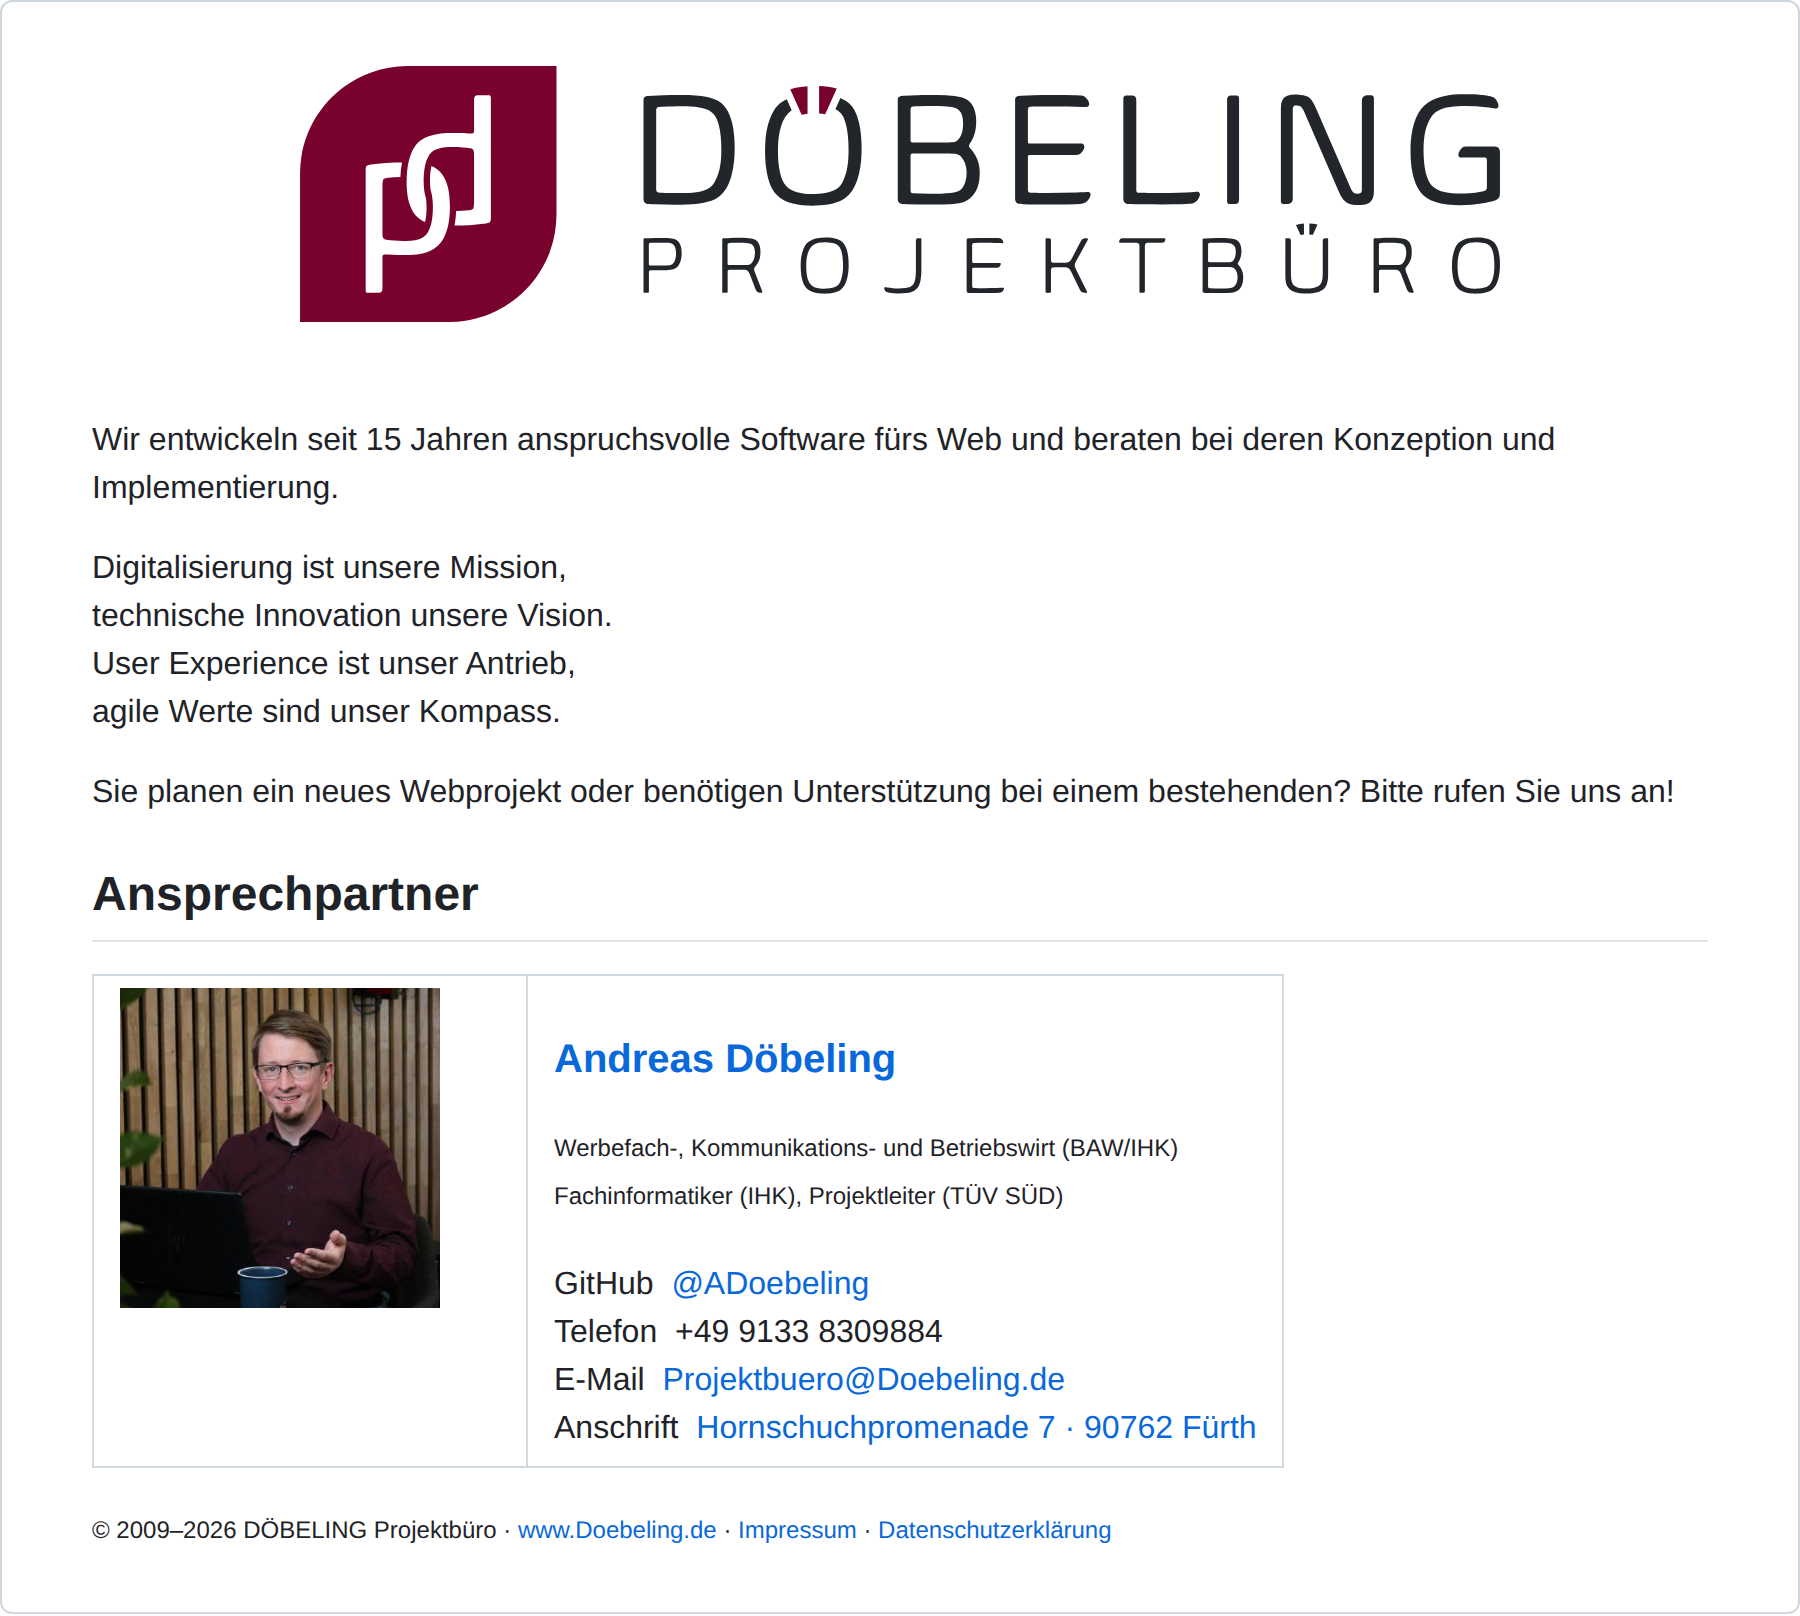
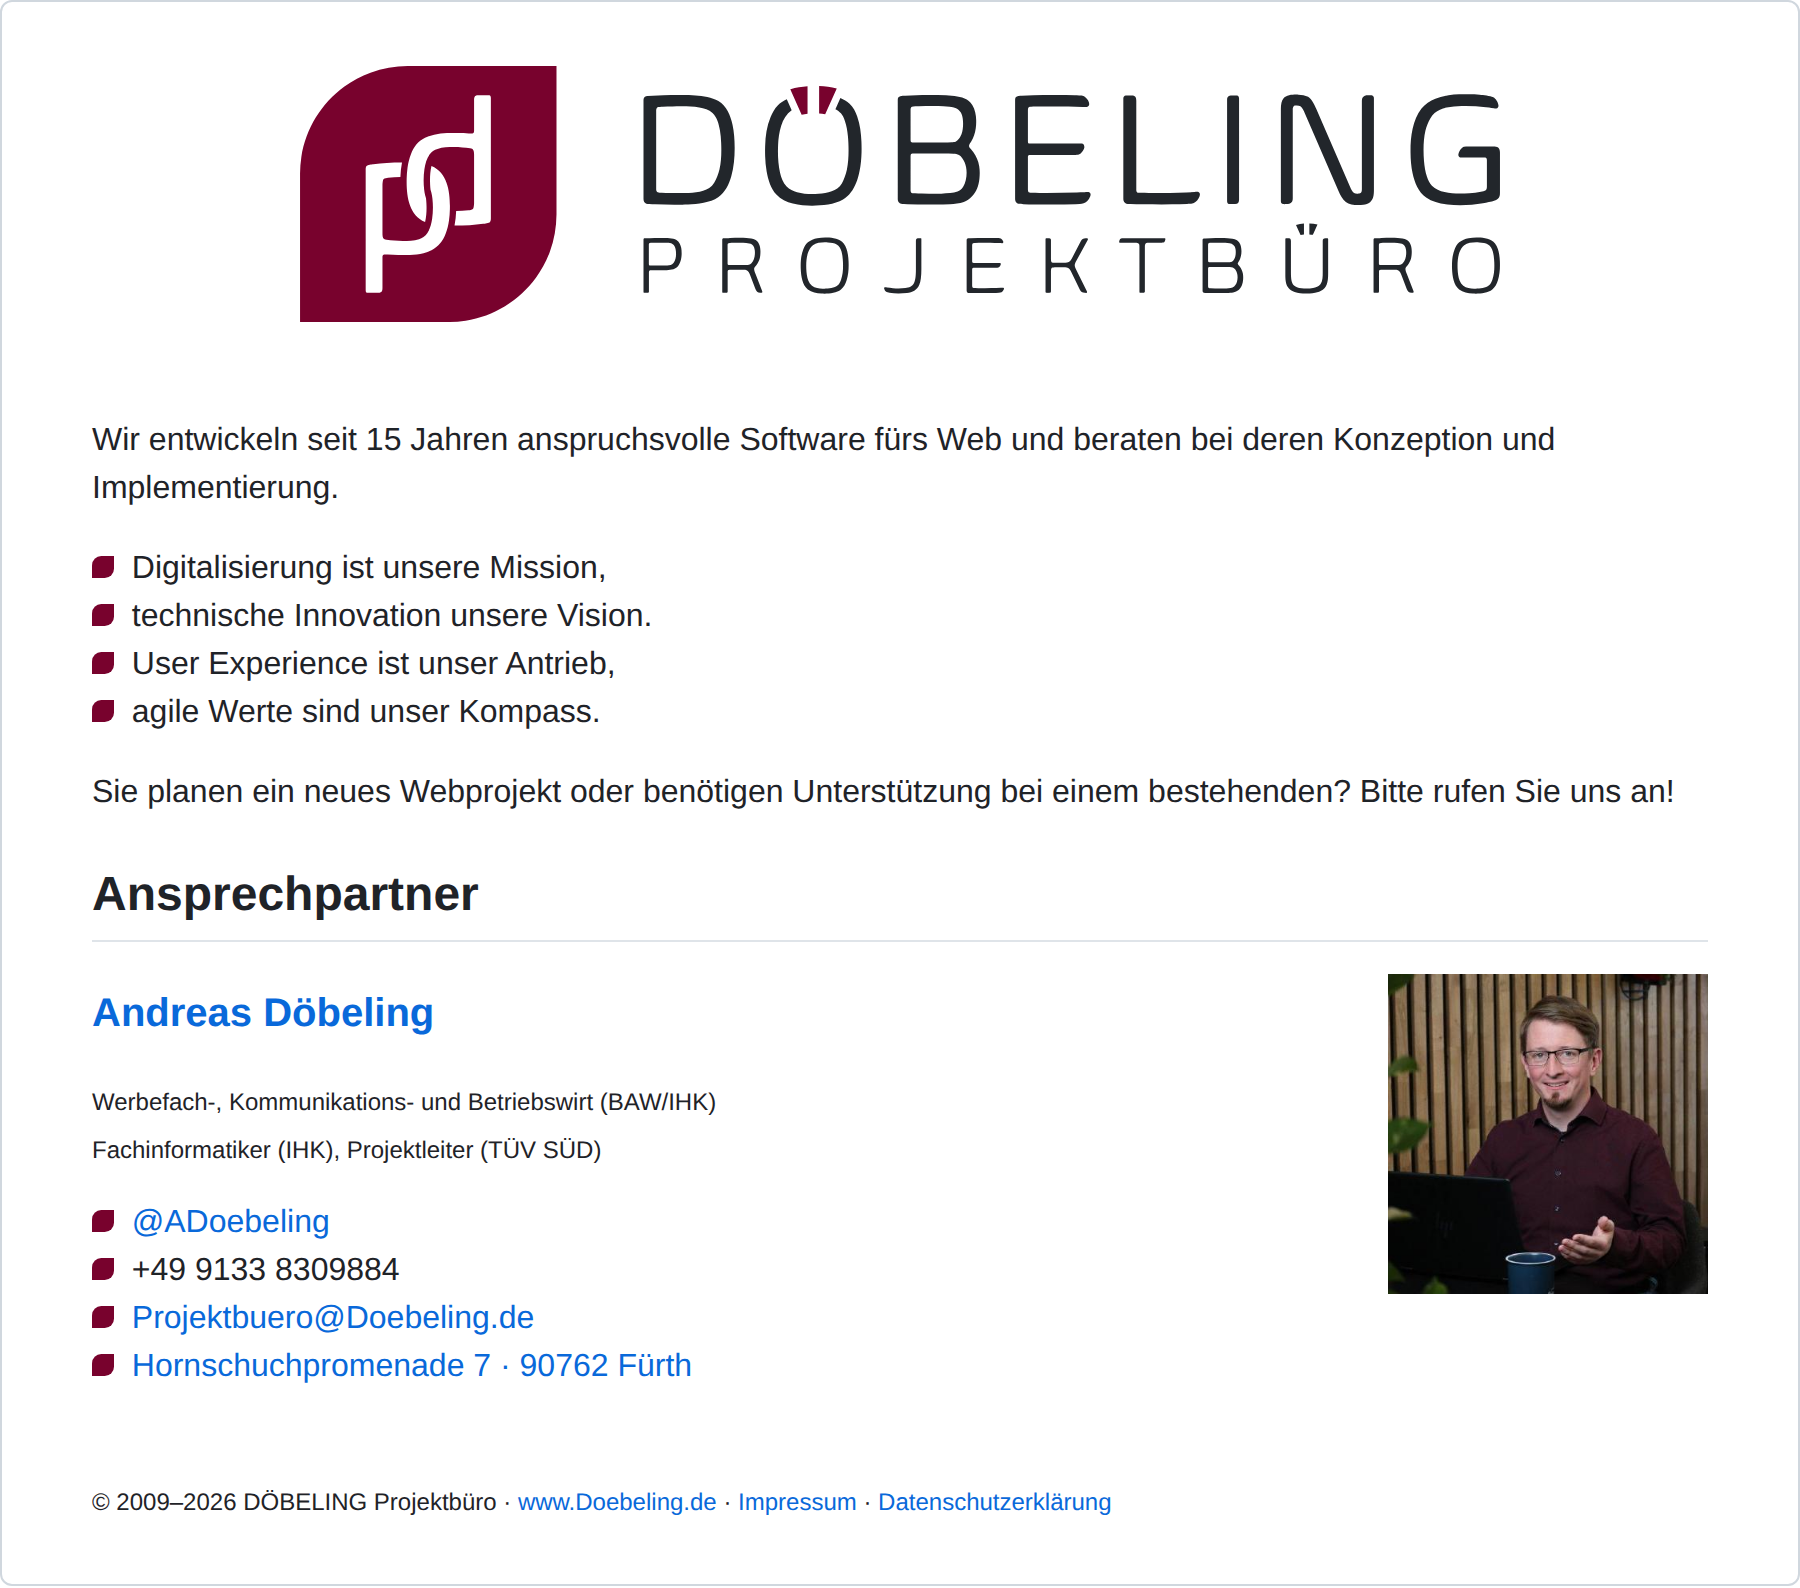
Profile: tile-shaped bullets, contact block without table
- Kachelform in Portwein (CD-Handbuch, section 6) as list marker for the
  four guiding lines and the contact lines
- contact person: portrait floated right like on doebeling.de, no table
- previews re-rendered

diff --git a/profile/README.md b/profile/README.md
@@ -11,32 +11,26 @@
 
 Wir entwickeln seit 15 Jahren anspruchsvolle Software fürs Web und beraten bei deren Konzeption und Implementierung.
 
-Digitalisierung ist unsere Mission,<br>
-technische Innovation unsere Vision.<br>
-User Experience ist unser Antrieb,<br>
-agile Werte sind unser Kompass.
+<img src="https://raw.githubusercontent.com/DOEBELING/.github/main/assets/kachel-portwein.svg" width="11" alt="">&nbsp;&nbsp;Digitalisierung ist unsere Mission,<br>
+<img src="https://raw.githubusercontent.com/DOEBELING/.github/main/assets/kachel-portwein.svg" width="11" alt="">&nbsp;&nbsp;technische Innovation unsere Vision.<br>
+<img src="https://raw.githubusercontent.com/DOEBELING/.github/main/assets/kachel-portwein.svg" width="11" alt="">&nbsp;&nbsp;User Experience ist unser Antrieb,<br>
+<img src="https://raw.githubusercontent.com/DOEBELING/.github/main/assets/kachel-portwein.svg" width="11" alt="">&nbsp;&nbsp;agile Werte sind unser Kompass.
 
 Sie planen ein neues Webprojekt oder benötigen Unterstützung bei einem bestehenden? Bitte rufen Sie uns an!
 
 ## Ansprechpartner
 
-<table>
-  <tr>
-    <td width="190" valign="top">
-      <a href="https://github.com/ADoebeling">
-        <img src="https://avatars.githubusercontent.com/u/10674780?v=4" width="160" alt="Andreas Döbeling">
-      </a>
-    </td>
-    <td valign="top">
-      <h3><a href="https://github.com/ADoebeling">Andreas Döbeling</a></h3>
-      <sub>Werbefach-, Kommunikations- und Betriebswirt (BAW/IHK)<br>Fachinformatiker (IHK), Projektleiter (TÜV SÜD)</sub>
-      <br><br>
-      GitHub&nbsp;&nbsp;<a href="https://github.com/ADoebeling">@ADoebeling</a><br>
-      Telefon&nbsp;&nbsp;+49 9133 8309884<br>
-      E-Mail&nbsp;&nbsp;<a href="mailto:Projektbuero@Doebeling.de?subject=%5Bgithub.com%2FDOEBELING%5D%20Projektanfrage">Projektbuero@Doebeling.de</a><br>
-      Anschrift&nbsp;&nbsp;<a href="https://maps.app.goo.gl/y6rogQu26bfhELxy5">Hornschuchpromenade 7 · 90762 Fürth</a>
-    </td>
-  </tr>
-</table>
+<a href="https://github.com/ADoebeling"><img src="https://avatars.githubusercontent.com/u/10674780?v=4" width="160" align="right" alt="Andreas Döbeling"></a>
+
+### [Andreas Döbeling](https://github.com/ADoebeling)
+
+<sub>Werbefach-, Kommunikations- und Betriebswirt (BAW/IHK)<br>Fachinformatiker (IHK), Projektleiter (TÜV SÜD)</sub>
+
+<img src="https://raw.githubusercontent.com/DOEBELING/.github/main/assets/kachel-portwein.svg" width="11" alt="">&nbsp;&nbsp;[@ADoebeling](https://github.com/ADoebeling)<br>
+<img src="https://raw.githubusercontent.com/DOEBELING/.github/main/assets/kachel-portwein.svg" width="11" alt="">&nbsp;&nbsp;+49 9133 8309884<br>
+<img src="https://raw.githubusercontent.com/DOEBELING/.github/main/assets/kachel-portwein.svg" width="11" alt="">&nbsp;&nbsp;[Projektbuero@Doebeling.de](mailto:Projektbuero@Doebeling.de?subject=%5Bgithub.com%2FDOEBELING%5D%20Projektanfrage)<br>
+<img src="https://raw.githubusercontent.com/DOEBELING/.github/main/assets/kachel-portwein.svg" width="11" alt="">&nbsp;&nbsp;[Hornschuchpromenade 7 · 90762 Fürth](https://maps.app.goo.gl/y6rogQu26bfhELxy5)
+
+<br clear="all">
 
 <sub>© 2009–2026 DÖBELING Projektbüro · <a href="https://www.Doebeling.de">www.Doebeling.de</a> · <a href="https://legal.doebeling.de/impressum/">Impressum</a> · <a href="https://legal.doebeling.de/datenschutzerklaerung/">Datenschutzerklärung</a></sub>
